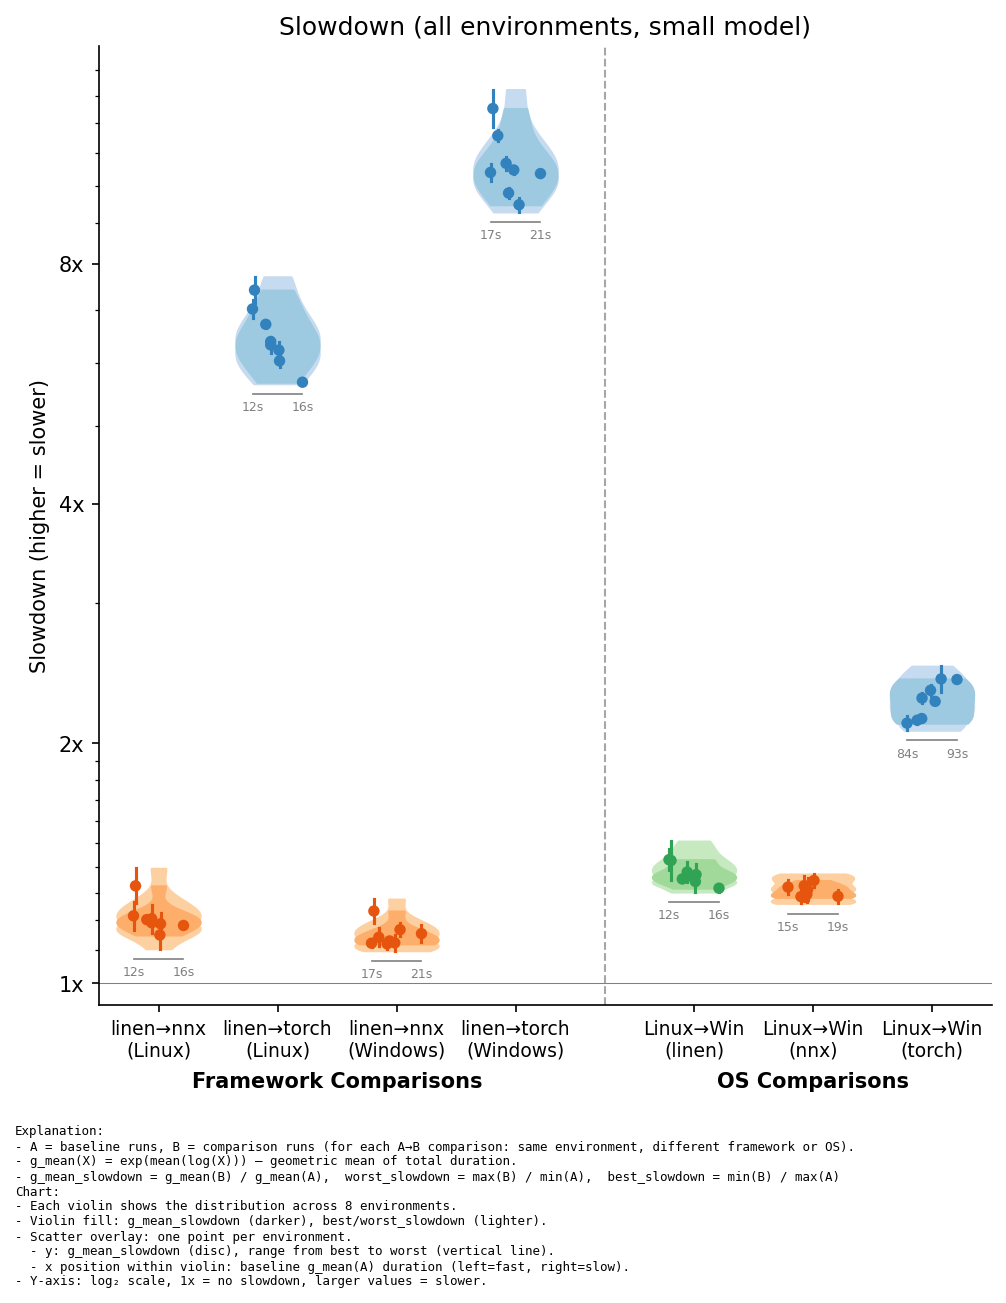
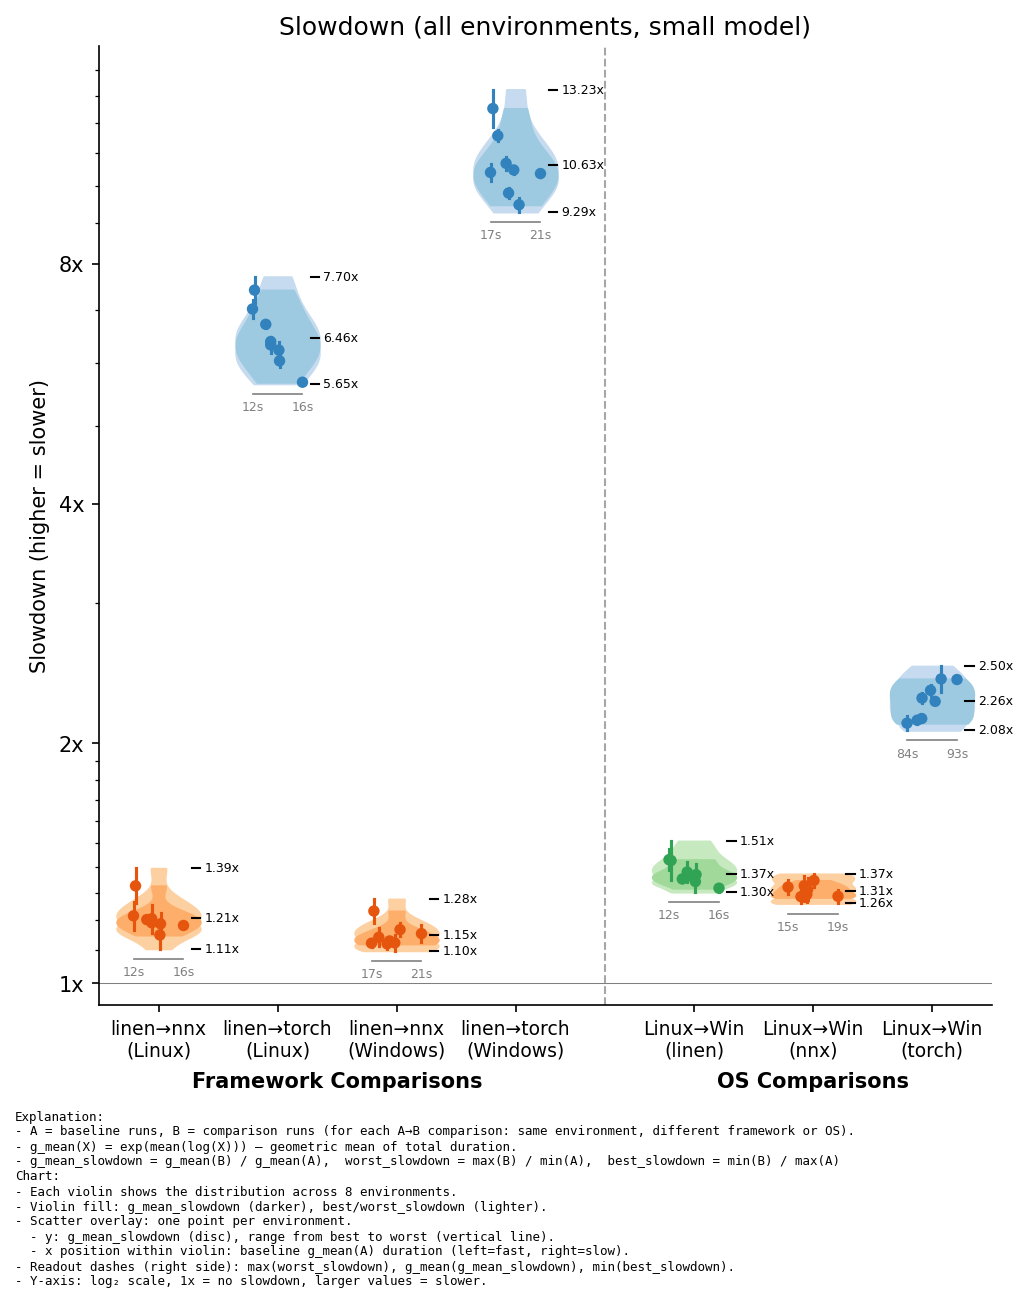
Results - writing up the analysis of the current results. Not finished yet

diff --git a/results/generate_charts.py b/results/generate_charts.py
@@ -371,6 +371,26 @@ def draw_slowdown_violin(
         color=colors["dark"], s=30, zorder=11, edgecolors="none",
     )
 
+    # Draw readout annotations on the right side of the violin
+    max_worst = float(np.max(worst_cases))  # worst of the worst cases
+    min_best = float(np.min(best_cases))    # best of the best cases
+    geo_mean_of_geo_means = float(np.exp(np.mean(np.log(geo_means))))
+
+    dash_x_start = position + width * 0.4
+    dash_x_end = position + width * 0.5
+    text_x = position + width * 0.55
+
+    # Draw dashes and labels for each metric
+    for y_val, label in [
+        (max_worst, f"{max_worst:.2f}x"),
+        (geo_mean_of_geo_means, f"{geo_mean_of_geo_means:.2f}x"),
+        (min_best, f"{min_best:.2f}x"),
+    ]:
+        ax.plot([dash_x_start, dash_x_end], [y_val, y_val],
+                color="black", linewidth=1, zorder=12)
+        ax.text(text_x, y_val, label, ha="left", va="center",
+                fontsize=6, color="black", zorder=12)
+
 
 def draw_slowdown_sub_axis(
     ax: Axes,
@@ -521,6 +541,7 @@ Chart:
 - Scatter overlay: one point per environment.
   - y: g_mean_slowdown (disc), range from best to worst (vertical line).
   - x position within violin: baseline g_mean(A) duration (left=fast, right=slow).
+- Readout dashes (right side): max(worst_slowdown), g_mean(g_mean_slowdown), min(best_slowdown).
 - Y-axis: log₂ scale, 1x = no slowdown, larger values = slower."""
     fig.text(0.02, 0.01, footer, fontsize=6, va="bottom", ha="left", family="monospace")
 
@@ -619,6 +640,7 @@ Chart:
 - Scatter overlay: one point per model size.
   - y: g_mean_slowdown (disc), range from best to worst (vertical line).
   - x position within violin: model size (left=s, middle=m, right=l).
+- Readout dashes (right side): max(worst_slowdown), g_mean(g_mean_slowdown), min(best_slowdown).
 - Y-axis: log₂ scale, 1x = no slowdown, larger values = slower."""
     fig.text(0.02, 0.01, footer, fontsize=6, va="bottom", ha="left", family="monospace")
 

diff --git a/README.md b/README.md
@@ -1,18 +1,114 @@
 # benchback-rl
 **Benchmarking Backends for Reinforcement Learning**: Flax.NNX (JAX) vs Flax.Linen (JAX) vs PyTorch
 
-This project aims to compare the three frameworks in pracice, and to evaluate if it's worth starting new RL projects in the new Flax.NNX (Flax version 0.11), or the more mature Flax.Linen or PyTorch.
+In this project I present high quality implentations of Proximal Policy Optimization (PPO) in multiple frameworks, while using GPU environments implemented in JAX from the Gymnax repository.
 
-This repository contains high quality implementation of PPO (Proximal Policy Optimization) that make use of GYMNAX environments that can run on the GPU (Reinforcement Learning Environments in JAX).
- - **PyTorch implementation:**
-    - Fully object oriented programming.
-    - Uses GYMNAX environments and transfers GPU tensors via DLPack.
-- **Linen implementation:**
-    - Mostly functional programming, with one PPO class that calls everything.
-    - jax.jit compiled functions are big and run once per training iteration.
-- **NNX implementation:**
-    - Mostly object oriented programming, with scans instead of for loops and special variable tracking that enables nnx.jit.
-    - nnx.jit compiled functions that can also be cached using cached_partial.
+I compare the performance of the frameworks and their ease of use with best coding practices.
+
+## Results Summary
+- Linen is the fastest and most difficult to use.
+- NNX is marginally slower than Linen, but nicer to use. Although documentation is lacking and it is still in early development.
+- Torch is much much slower than both NNX and Linen. Although it is much nicer to use (both in terms of implementation and documentation).
+- Running benchmarks on Windows via Docker running in WSL is slower than running Docker natively in Linux (Ubuntu).
+
+I will be using NNX in my next RL project.
+
+## Experiment 1: All Environments, Small model
+### Method
+This experiment compares the total training time of the following:
+
+- For each Gymnax environment in ["CartPole-v1", "Acrobot-v1", "MountainCar-v0", "DiscountingChain-bsuite", "MemoryChain-bsuite", "UmbrellaChain-bsuite", "BernoulliBandit-misc", "GaussianBandit-misc"]
+- For each framework in [Linen, NNX, Torch]
+- For each OS in [Linux, Windows]
+- Repeated 2x
+
+
+With the follwing hyperparameters:
+- number of parallel environments: 32
+- number of steps in a rollout: 256
+- number of minibatches per epoch: 8 (equivalent to minibatch size of 1024)
+- number of epochs per update: 10
+- number of iterations (rollout + update): 100
+
+- model for both actor and critic: MLP with hidden sizes: [64,64]
+    - 3 layers total:
+        - `observation space size` -> `64`
+        - `64` -> `64`
+        - `64` -> (`1` for critic, `action space size` for actor)
+    - Tanh activation function on hidden layers
+
+- learning_rate: linear decay from 2.5e-4 to 0
+- gamma = 0.99
+- gae_lambda = 0.95
+- clip_coef = 0.2
+- ent_coef = 0.01
+- vf_coef = 0.5
+- max_grad_norm = 0.5
+- adam_eps = 1e-5
+- adam_betas = (0.9, 0.999)
+
+### Results:
+We can see the distribution of the total run duration over all environments and repeats in the following chart':
+
+![exp1 box plot](results/exp1_boxplot.png)
+
+We can see that Linen is consistently the fastest, NNX is marginally slower, and Torch is much slower. We can also see that Windows is slower than Linux.
+
+To answer the question of how much slower, look at the following chart:
+
+![exp1 slowdown](results/exp1_slowdown.png)
+
+We observe the following slowdowns between frameworks:
+- Linen -> NNX: the slowdown is marginal, between 1.10x and 1.39x
+- Linein -> Torch: the slowdown is large, between 5.65x and 9.29x
+
+Moreover, we can see a general trend of a smaller framework slowdown when using larger environments. This makes sense, because the choice of framework doesn't affect the environment computation in JAX. Therefore, larger environment => smaller proportion of run is affected by slowdown => smaller overall slowdown.
+
+As for the operating system, the slowdown from Linux -> Windows is worst for Torch and over 2x, while more marginal for Linen and NNX.
+
+The influence of environment size on OS slowdown is incosistent. For linen, smaller environments lead to a larger slowdown. For torch, larger environments lead to a larger slowdown. My guess is that having torch loaded at the same time as jax causes a slowdown on windows drivers.
+
+## Experiment 2: Acrobot-v1 environment, various model sizes
+### Method
+Similar to experiment 1, however, this time we keep the same environment and experiment with different model sizes:
+- for each model in:
+    - s: (hidden sizes: [64,64]),
+    - m: (hidden sizes: [256,256,256]),
+    - l: (hidden sizes: [1024,1024,1024,1024,1024,1024])
+- for each framework in [Linen, NNX, Torch]
+- for each os in [Linux, Windows]
+- repeated 4x
+
+### Results
+We can see the distributions of the total run duration over the 4 repeats in the following chart:
+
+![exp2 box plot](results/exp2_boxplot.png)
+
+We can observe that larger models take longer to run. To find out how much they affected the framework and os slowdown, see the following:
+
+![exp2 slowdown](results/exp2_slowdown.png)
+
+We can see that the larger the model, the smaller the slowdown. This makes sense, since all frameworks are optimised to run efficiently for the computation heavy model operations. The likely areas that affect the slowdown the most are the loops around the framework usage, which can be compiled using jax.jit (or nnx.jit), but not in Torch.
+
+Neverthelles, for torch, even with the largest model on Linx (best case scenario), torch was slowed down 1.7x over linen.
+
+## Experiment 3: Detailed analysis of timings
+### Method
+In this experiment, I synchronise the GPU to wait for all asynchronous operations to complete before timing individual elements in the run. At the cost of overall performance, I can compare how long individual parts of the run took.
+
+
+
+## Installation & Setup
+
+## Implementation Details and Design Choices
+- Environments are implemented in pure JAX from the Gymnax repository and are run on the GPU.
+- PPO implementation is simple, only using the core implementation details from:
+    - https://iclr-blog-track.github.io/2022/03/25/ppo-implementation-details/
+    - Only discreet action spaces
+    - Only tabular inputs (no images / ATARI)
+    - No recurrent networks
+- PPO does not distinguish between truncated and terminated environments - Gymnax follows the OpenAI Gym pre-v0.26 API, which provides a single `done` signal. All `done=True` episodes are treated as terminal (no value bootstrapping, bootstrap value is zero).
+
 
 ## Work in progress & TODO
 This repository is unfinished. I am actively working on it and it should be done in the next weeks.
